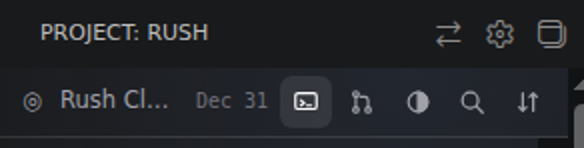
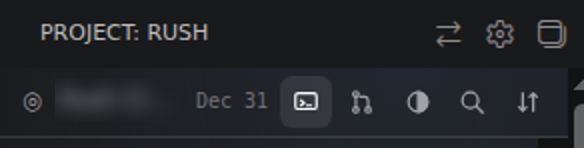
docs(evidence): the compact panel in a real VSCodium run

Changed region(s): [[0.0925, 0.5946, 0.3082, 0.7568]]

diff --git a/CHANGELOG.md b/CHANGELOG.md
@@ -8,8 +8,8 @@ All notable changes to AGI EXT (the VS Code extension) are documented here. Form
 
 From the owner's 8:59 PM recording: the Project panel takes less room.
 - The project's name is the view's title ("PROJECT: RUSH"; ⇄ beside it switches it), so the
-  panel's header is one row: the goal (Rush Cloud – first paying customers · Dec 31; this
-  week's goal and today's goal in its tooltip), then the tabs as icons, search and ⇅.
+  panel's header is one row: the goal with its date (this week's goal and today's goal in
+  its tooltip), then the tabs as icons, search and ⇅.
   Settings › Tabs turns Review and Issues off.
 - The pinned card has no state row: "This tab · 2 · s1 · 5m ago" sits between ‹ and ›, and
   the state is the card's tint (its word in the tooltip).
